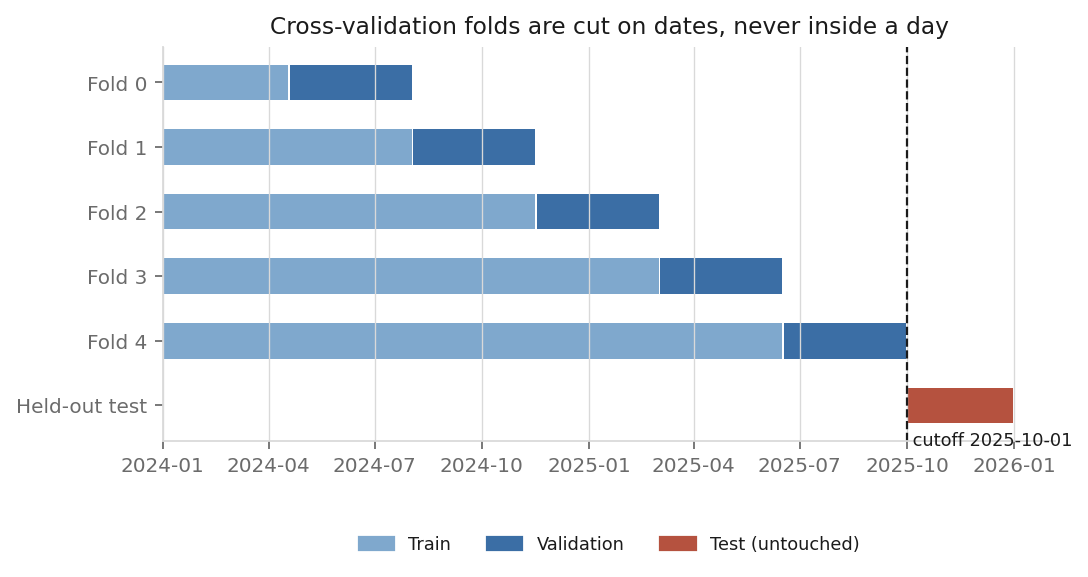
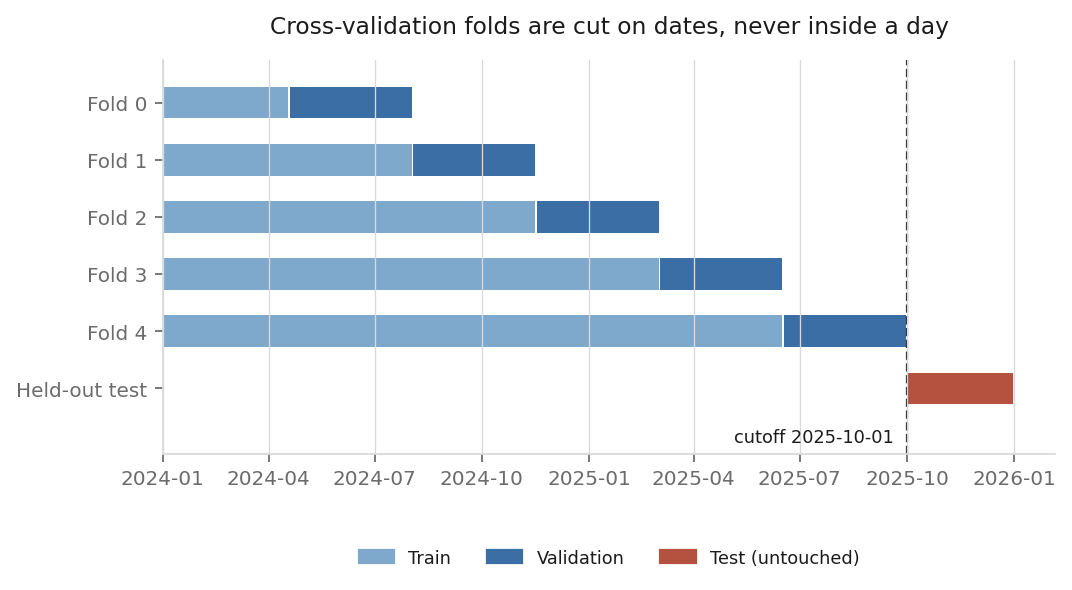
Fix figure label overlap

diff --git a/reports/figures/make_figures.py b/reports/figures/make_figures.py
@@ -56,22 +56,29 @@ def fig_departure_hour(train_pool):
     ax.axhline(0, color=GRID, lw=1)
     ax.plot(med.index, med.values, color=BARS[0], lw=2, marker="o", ms=3.5)
     lo, hi = med.idxmin(), med.idxmax()
-    ax.set_ylim(med.min() - 2.5, med.max() + 2.5)
-    # label the trough above its point and the peak below its point, so neither
-    # collides with the title or the x-axis
-    ax.annotate(f"{med[lo]:.0f} min at {lo:02d}:00", (lo, med[lo]),
-                textcoords="offset points", xytext=(6, 10),
-                ha="left", va="bottom", fontsize=8.5, color=INK)
-    ax.annotate(f"{med[hi]:.0f} min at {hi:02d}:00", (hi, med[hi]),
-                textcoords="offset points", xytext=(0, -13),
-                ha="center", va="top", fontsize=8.5, color=INK)
-    ax.set_title("Median arrival delay by scheduled departure hour")
-    ax.set_xlabel("Scheduled departure hour")
-    ax.set_ylabel("Median ArrDelay (min)")
+    ax.set_ylim(med.min() - 3.5, med.max() + 1.5)
+    # mark the two extremes on the line, and describe them in the empty
+    # lower-right corner so no text ever crosses the series
+    ax.scatter([lo, hi], [med[lo], med[hi]], s=42, zorder=5,
+               facecolor="white", edgecolor=BARS[0], linewidth=1.8)
+    rows = [(f"{lo:02d}:00", f"{med[lo]:.0f} min"),
+            (f"{hi:02d}:00", f"{med[hi]:.0f} min"),
+            ("spread", f"{med.max()-med.min():.0f} min")]
+    w = max(len(v) for _, v in rows)
+    ax.text(0.985, 0.06,
+            "\n".join(f"{k:<7}{v:>{w}}" for k, v in rows),
+            transform=ax.transAxes, ha="right", va="bottom",
+            fontsize=8.5, color=INK, linespacing=1.5, family="monospace",
+            bbox=dict(boxstyle="round,pad=0.5", facecolor="white",
+                      edgecolor=GRID, linewidth=0.8))
+    ax.set_title("Median arrival delay by scheduled departure hour", pad=12)
+    ax.set_xlabel("Scheduled departure hour", labelpad=8)
+    ax.set_ylabel("Median ArrDelay (min)", labelpad=8)
     ax.set_xticks(range(5, 24, 2)); ax.grid(axis="y", color=GRID, lw=0.6)
-    ax.text(0.5, -0.30, f"Train pool only, {len(train_pool):,} flights. "
-            f"Spread of {med.max()-med.min():.0f} minutes across the day.",
-            transform=ax.transAxes, ha="center", fontsize=8, color=MUTED)
+    ax.margins(x=0.03)
+    ax.text(0, -0.24, f"Train pool only, {len(train_pool):,} flights. "
+            "Early departures run ahead of schedule; later ones absorb the day's delay.",
+            transform=ax.transAxes, ha="left", fontsize=8, color=MUTED)
     fig.savefig(f"{OUT}/delay_by_departure_hour.png"); plt.close(fig)
     return med
 
@@ -113,7 +120,7 @@ def fig_rung_usage(counts):
                         fontsize=8.5, color="white" if colour == BARS[0] else INK)
         bottom += pct
     ax.set_xlim(0, 100); ax.invert_yaxis()
-    ax.set_title("Which fallback rung produced each prediction")
+    ax.set_title("Which fallback rung produced each prediction", pad=12)
     ax.set_xlabel("Share of validation rows (%)")
     ax.legend(loc="upper center", bbox_to_anchor=(0.5, -0.26), ncol=3,
               frameon=False, fontsize=8)
@@ -132,11 +139,12 @@ def fig_fold_structure(train_pool, test, dates):
             left=test["FlightDate"].min(), color="#b5523f", height=0.55)
     ax.set_yticks(list(range(N_SPLITS)) + [N_SPLITS])
     ax.set_yticklabels([f"Fold {i}" for i in range(N_SPLITS)] + ["Held-out test"])
-    ax.invert_yaxis()
-    ax.axvline(CUTOFF, color=INK, ls="--", lw=1)
-    ax.text(CUTOFF, N_SPLITS + 0.55, " cutoff 2025-10-01", fontsize=8, color=INK,
-            va="center", ha="left")
-    ax.set_title("Cross-validation folds are cut on dates, never inside a day")
+    ax.set_ylim(N_SPLITS + 1.15, -0.75)          # inverted, with room under the bars
+    ax.axvline(CUTOFF, color=INK, ls="--", lw=1, zorder=1)
+    ax.annotate("cutoff 2025-10-01", xy=(CUTOFF, N_SPLITS + 0.85),
+                xytext=(-6, 0), textcoords="offset points",
+                fontsize=8, color=INK, va="center", ha="right")
+    ax.set_title("Cross-validation folds are cut on dates, never inside a day", pad=12)
     ax.grid(axis="x", color=GRID, lw=0.6)
     handles = [plt.Rectangle((0, 0), 1, 1, color=c) for c in (BARS[1], BARS[0], "#b5523f")]
     ax.legend(handles, ["Train", "Validation", "Test (untouched)"],
